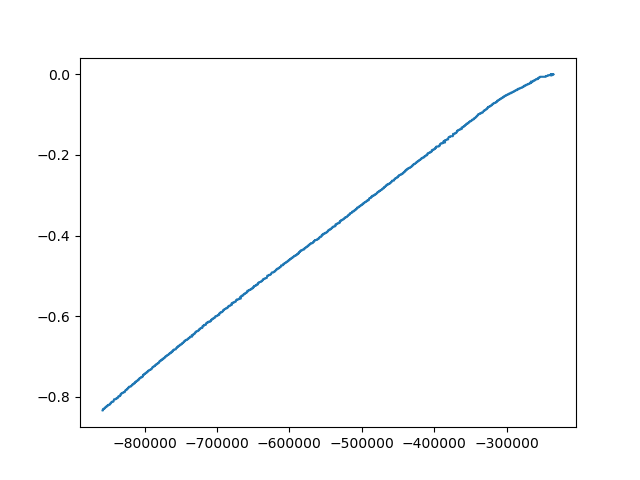
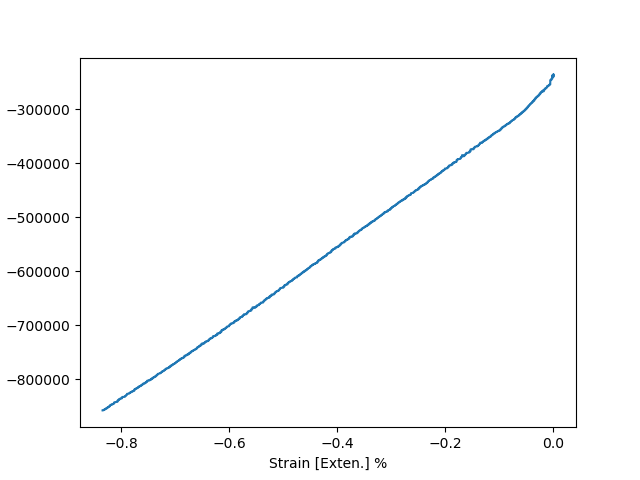
retry

diff --git a/plot.py b/plot.py
@@ -37,7 +37,9 @@ def main():
     # Make sure to include axis labels and units!
     # plt.plot(xdata,ydata, arguments-to-make-plot-pretty)
     #"Time sec","Extension mm","Load N","Stress MPa","Cycle Count ","Total Cycle Count ","Repetitions Count ","Strain [Exten.] %","Tenacity gf/tex"
-    plt.plot(data[:,3], data[:,7])
+    plt.plot(data[:,7], data[:,3])
+    plt.xlabel("Strain [Exten.] %")
+    plt.ylabel("Stress MPa")
     plt.savefig("fig.png")
 
     ## Part 2
